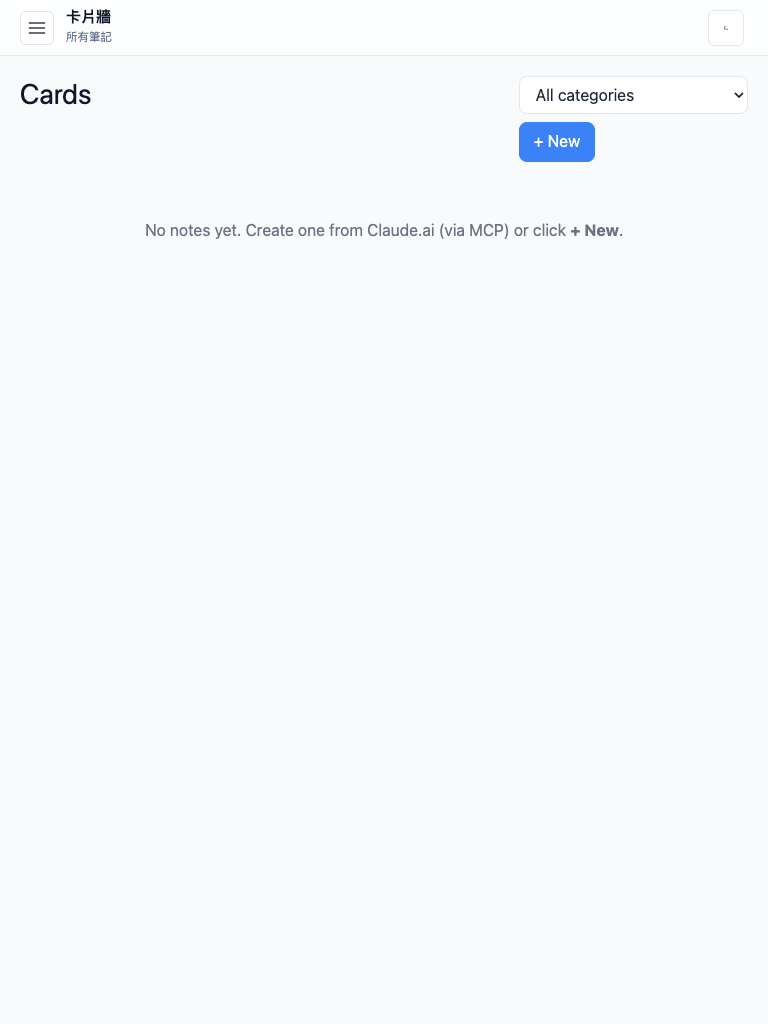
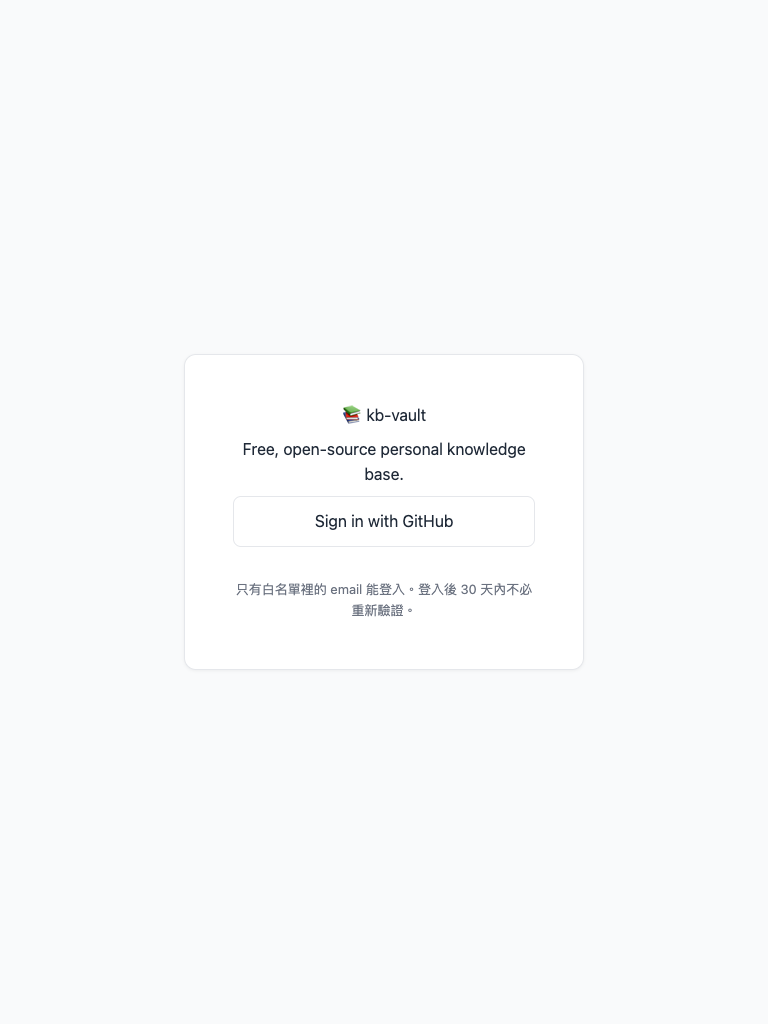
ui: rebrand Login page to Free Second Brain

diff --git a/ui/src/pages/Login.tsx b/ui/src/pages/Login.tsx
@@ -45,8 +45,8 @@ export default function Login() {
   return (
     <div className="login-page">
       <div className="login-box">
-        <h1>📚 kb-vault</h1>
-        <p>Free, open-source personal knowledge base.</p>
+        <h1>🧠 Free Second Brain</h1>
+        <p>Open-source Second Brain for the LLM age.<br/>Bring your own Claude.</p>
 
         {sent ? (
           <div className="alert">